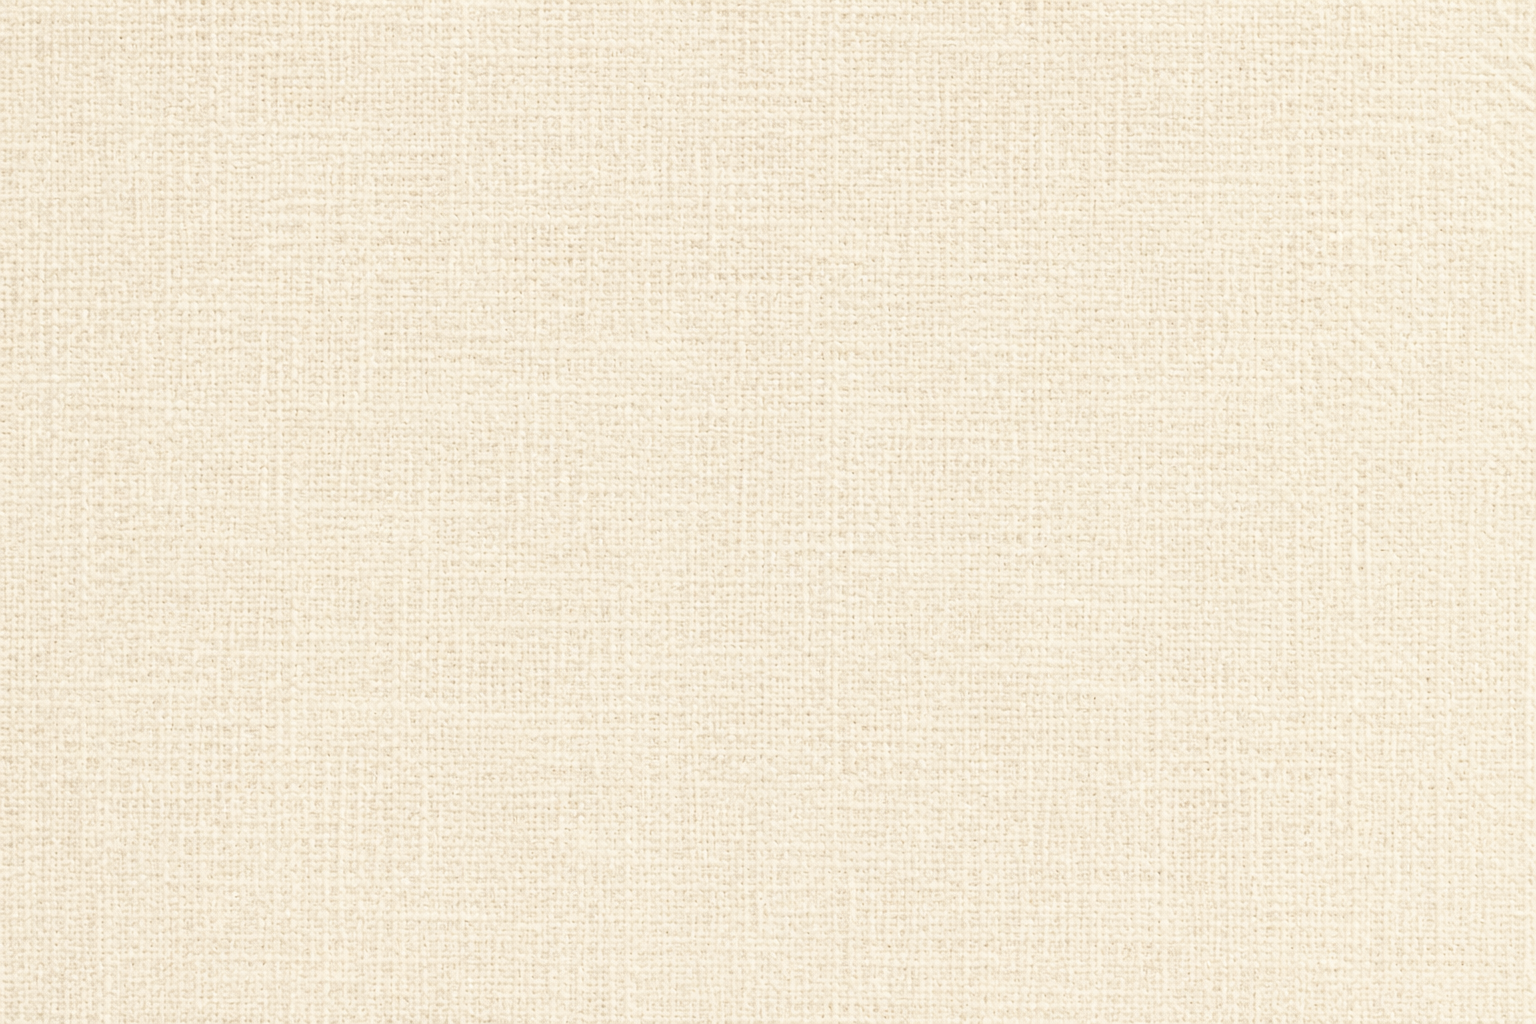
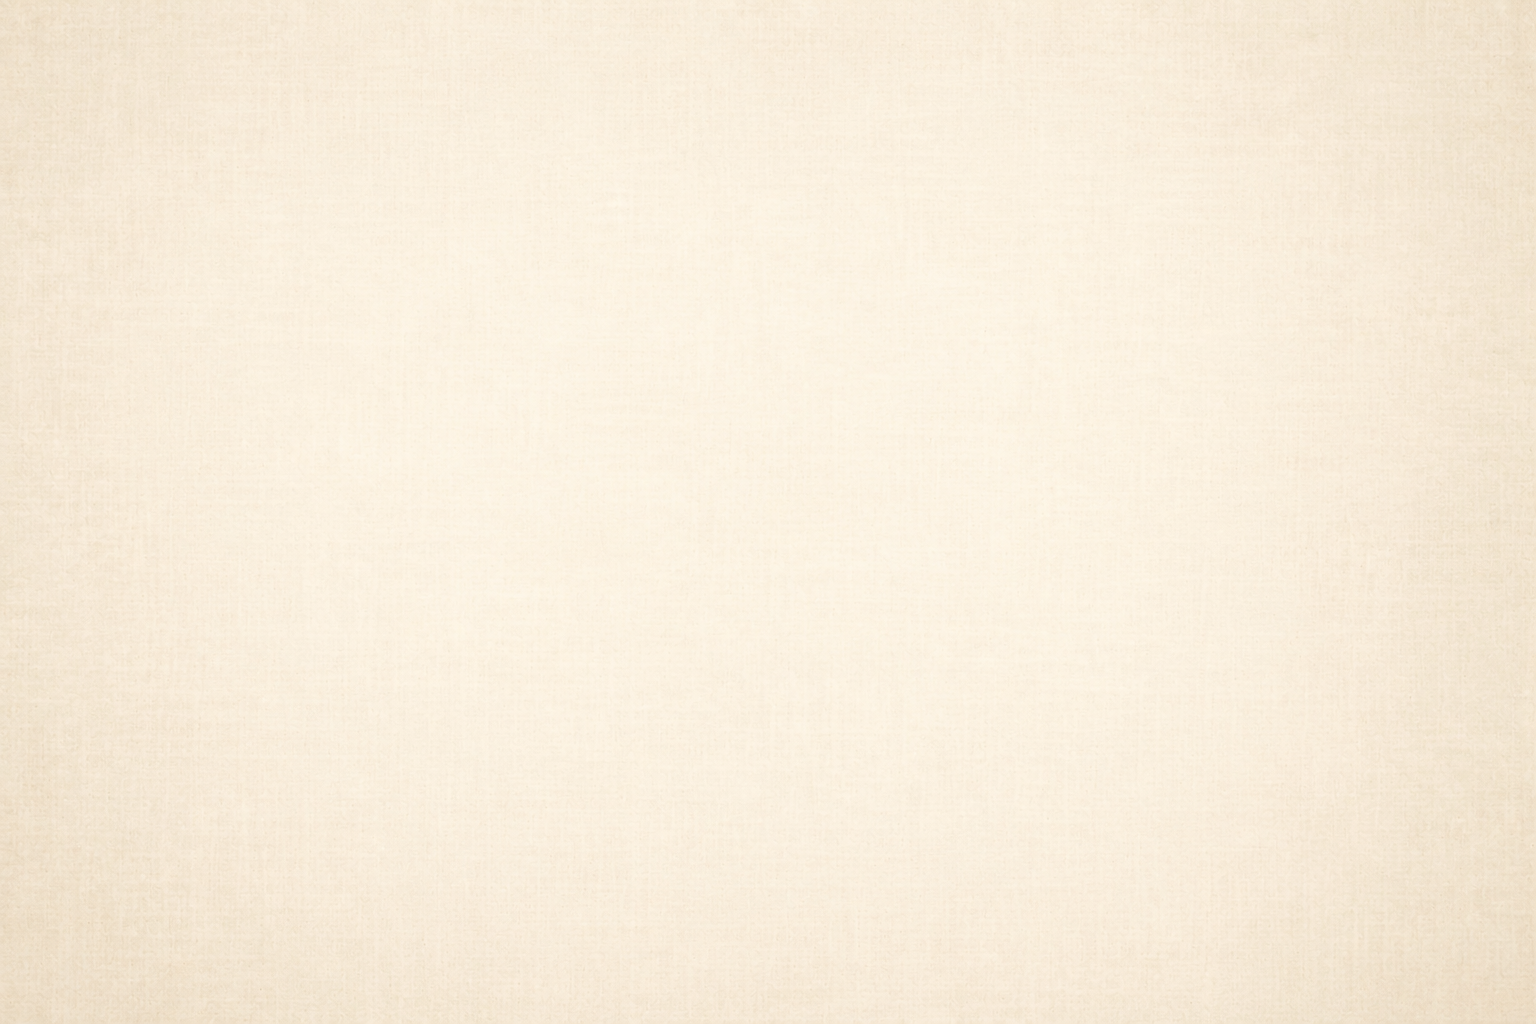
Nue_F

diff --git a/index.html b/index.html
@@ -39,7 +39,7 @@ body {
     background-repeat: no-repeat;    /* Evita que la imagen se duplique en pantallas grandes */
     cursor: pointer;
     transition: opacity 1s ease, visibility 1s ease;
-    gap: 32px;
+    gap: 20px;
 }
 #envelope-screen.hidden {
     opacity: 0;
@@ -72,7 +72,7 @@ body {
 .envelope-wrap {
     position: relative;
     width: min(520px, 92vw);
-    margin-top: -80px;
+    margin-top: -60px;
     opacity: 0;
     animation: fadeUp 1s ease 0.7s forwards;
     animation-fill-mode: forwards;